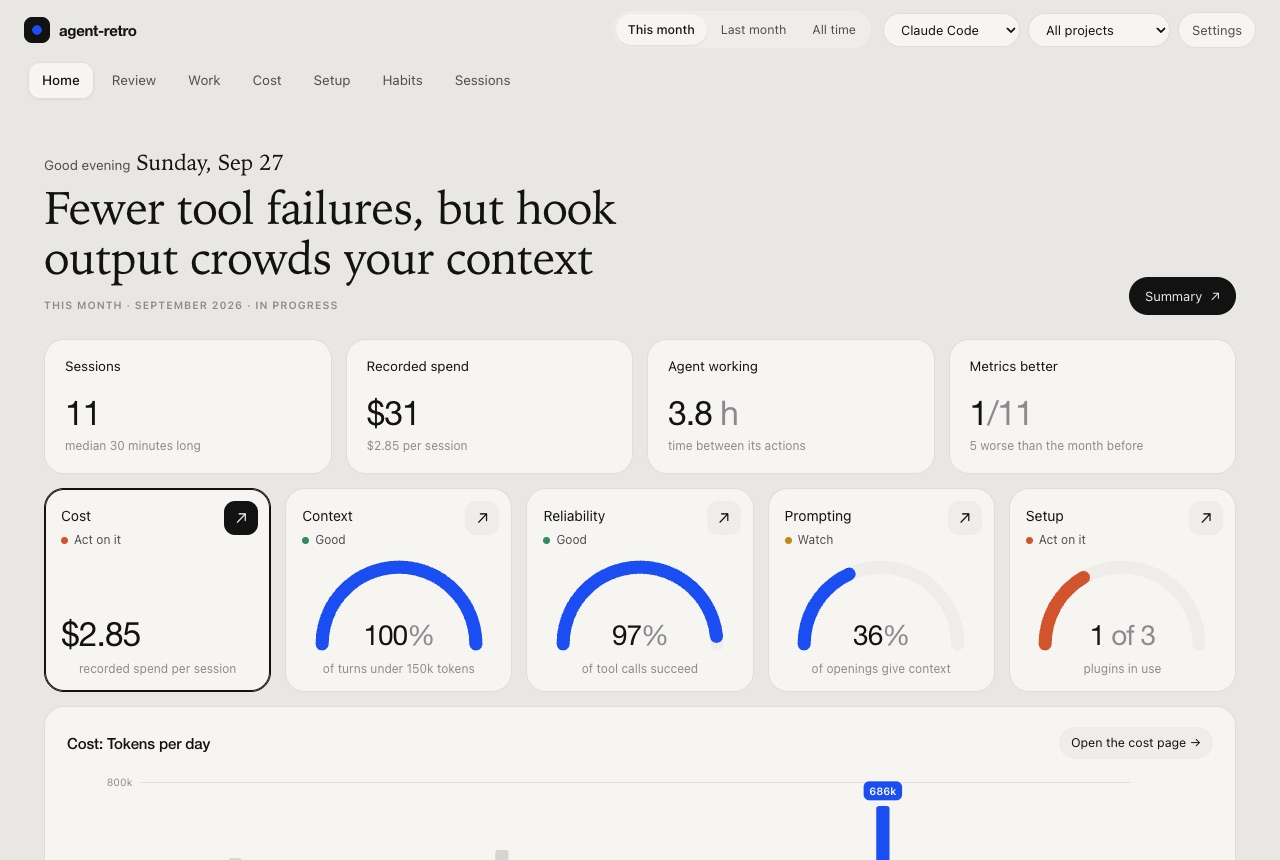
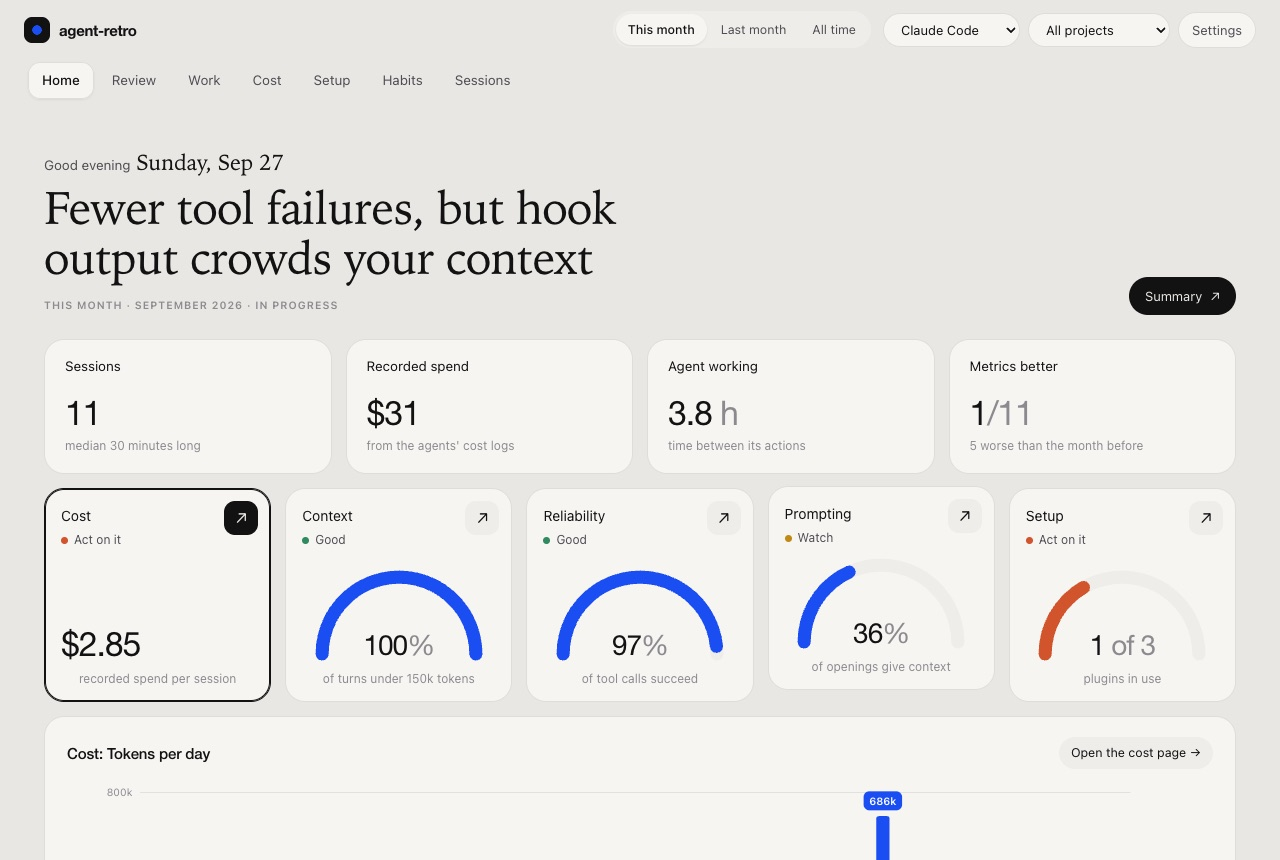
Say each change once: one Change list led by Do next
Change, Do next, the experiment and What to change were the same
recommendations four times. The review's change list now leads with the
numbered Do next items (with the metric to watch, one marked as the
experiment) and every renderer shows it once: the dashboard's What to
change, the summary, and the text and markdown reviews. Home shows only
your next step and a tally of what worked; the review card shows the
verdict instead of restating its own numbers.

diff --git a/ui/index.html b/ui/index.html
@@ -249,7 +249,25 @@
   /* Recommendations ----------------------------------------------------------- */
   .recs { list-style: none; margin: 0; padding: 0; display: grid; gap: 12px; }
   .rec { min-width: 0; background: var(--surface); border: 1px solid var(--rule); border-radius: var(--radius); padding: 20px 22px; }
-  .rec h3 { margin: 0 0 10px; font: 400 21px/1.25 var(--serif); display: flex; gap: 10px; align-items: baseline; flex-wrap: wrap; }
+  .rec h3 { margin: 0 0 10px; font: 400 21px/1.25 var(--serif); display: flex; gap: 12px; align-items: baseline; flex-wrap: wrap; }
+  .rec h3 .tags { margin-left: auto; display: inline-flex; gap: 6px; align-items: center; }
+  .rec .nx { font: 400 21px var(--serif); color: var(--ink-3); }
+  .rec.next:first-child .nx { color: var(--signal); }
+  .rec .kind { font: 600 10px var(--body); letter-spacing: .07em; text-transform: uppercase; color: var(--ink-2); background: var(--inset); border-radius: 999px; padding: 2px 8px; }
+  .rec .kind.start { color: var(--signal); background: var(--signal-soft); }
+  .watch { margin: -2px 0 12px; font-size: 13px; color: var(--ink-2); }
+  .watch b { font-weight: 600; color: var(--ink); }
+  .watch .exp { color: var(--signal); font-weight: 500; }
+  .watch code { font: 12px var(--mono); }
+  .more-recs { list-style: none; }
+  .more-recs summary { cursor: pointer; padding: 14px 4px; font: 400 20px var(--serif); }
+  .more-recs summary span { font: 400 13px var(--body); color: var(--ink-3); margin-left: 10px; }
+  .more-recs .recs { margin-top: 4px; }
+  .next-step > b { display: block; font: 400 22px/1.3 var(--serif); margin-bottom: 6px; }
+  .next-step p { margin: 0 0 10px; font-size: 13.5px; color: var(--ink-2); }
+  .next-step .row { display: flex; gap: 10px; align-items: center; flex-wrap: wrap; margin-top: 14px; }
+  .tally { display: flex; align-items: center; gap: 6px; margin: 4px 0 0; }
+  .tally span { margin-left: 10px; font: 400 34px/1 var(--display); letter-spacing: -0.035em; }
   .lvl { font: 600 10.5px var(--body); letter-spacing: .06em; text-transform: uppercase; padding: 2px 8px; border-radius: 999px; background: var(--track); color: var(--ink-2); }
   .rec.high .lvl { background: var(--alert-soft); color: var(--alert); }
   .rec dl { display: grid; grid-template-columns: 44px minmax(0, 1fr); gap: 6px 12px; margin: 0; font-size: 14px; }
@@ -358,14 +376,7 @@
   .digest-bar { max-width: 780px; margin: 0 auto 14px; display: flex; justify-content: space-between; align-items: center; gap: 12px; flex-wrap: wrap; }
   .digest { max-width: 780px; margin: 0 auto; background: var(--surface); border: 1px solid var(--rule); border-radius: 24px; padding: clamp(24px, 5vw, 52px) clamp(20px, 5vw, 60px); }
   .digest h2 { font: 400 clamp(30px, 4vw, 44px)/1.1 var(--serif); letter-spacing: -0.01em; margin: 12px 0 14px; }
-  .digest .lede { font: 400 18px/1.5 var(--serif); color: var(--ink-2); margin: 0; }
-  .digest .stats { display: grid; grid-template-columns: repeat(4, minmax(0, 1fr)); margin: 28px 0 8px; padding: 18px 0; border-block: 1px solid var(--rule); }
-  .digest .stats div { padding: 0 16px; border-left: 1px solid var(--rule); min-width: 0; }
-  .digest .stats div:first-child { padding-left: 0; border-left: 0; }
-  .digest .stats b { display: block; font: 400 30px/1.1 var(--display); letter-spacing: -0.035em; white-space: nowrap; overflow: hidden; text-overflow: ellipsis; }
-  .digest .stats div > span { font-size: 12px; color: var(--ink-3); }
-  .digest .stats b.txt { font-size: 20px; line-height: 1.5; letter-spacing: -0.01em; white-space: normal; }
-  @media (max-width: 640px) { .digest .stats { grid-template-columns: repeat(2, minmax(0, 1fr)); gap: 14px 0; } .digest .stats div:nth-child(3) { padding-left: 0; border-left: 0; } }
+  .digest .lede { font: 400 18px/1.5 var(--serif); color: var(--ink-2); margin: 0 0 8px; }
   .digest h3 { display: flex; align-items: center; gap: 8px; font: 600 10.5px var(--body); letter-spacing: .09em; text-transform: uppercase; color: var(--ink-2); margin: 34px 0 6px; }
   .digest h3::before { content: ""; width: 8px; height: 8px; border-radius: 50%; background: var(--c, var(--ink-3)); }
   .digest h3.good { --c: var(--good); } .digest h3.bad { --c: var(--alert); } .digest h3.change { --c: var(--signal); } .digest h3.next { --c: var(--ink); }
@@ -375,7 +386,8 @@
   .drow b { font-weight: 500; color: var(--ink); line-height: 1.4; }
   .drow span { color: var(--ink-3); font-size: 13px; }
   .drow .n { font: 400 19px/1.2 var(--serif); color: var(--ink-3); }
-  .drow:first-of-type .n { color: var(--signal); }
+  .drow .n { font-size: 17px; }
+  h3.change + .drow .n { color: var(--signal); }
   .drow .kind { justify-self: start; align-self: start; margin-top: 2px; }
   .drow.kinded { grid-template-columns: 54px minmax(0, 1fr); }
   .digest .tools { display: flex; gap: 12px; flex-wrap: wrap; align-items: center; margin-top: 34px; padding-top: 22px; border-top: 1px solid var(--rule); }
@@ -386,7 +398,7 @@
   .card .nums div { padding: 0 20px; border-left: 1px solid var(--rule); min-width: 0; }
   .card .nums div:first-child { padding-left: 0; border-left: 0; }
   .card .nums div b { display: block; font: 400 34px/1.1 var(--display); letter-spacing: -0.035em; overflow: hidden; text-overflow: ellipsis; white-space: nowrap; }
-  .card .nums div span { font-size: 12.5px; color: var(--ink-3); }
+  .card .nums div > span { font-size: 12.5px; color: var(--ink-3); }
   @media (max-width: 640px) { .card .nums { gap: 14px; } .card .nums div { border-left: 0; padding: 0; } }
   .card p { margin: 18px 0 0; padding-top: 16px; border-top: 1px solid var(--rule); font: 400 19px/1.45 var(--serif); color: var(--ink); max-width: 80ch; }
   .board { display: grid; grid-template-columns: repeat(3, minmax(0, 1fr)); gap: 14px; }
@@ -396,7 +408,8 @@
   .board .col h3 { margin: 0 0 12px; font: 600 10.5px var(--body); letter-spacing: .09em; text-transform: uppercase; color: var(--ink-2); display: flex; align-items: center; gap: 8px; }
   .board .col h3::before { content: ""; width: 8px; height: 8px; border-radius: 50%; background: var(--c); }
   .board .col h3 span { margin-left: auto; font: 400 22px var(--display); letter-spacing: -0.02em; color: var(--ink); }
-  .board .col.good { --c: var(--good); } .board .col.bad { --c: var(--alert); } .board .col.change { --c: var(--signal); }
+  .board .col.good { --c: var(--good); } .board .col.bad { --c: var(--alert); } .board .col.check { --c: var(--ink); }
+  .board .kz-item { display: flex; gap: 10px; }
   .note .kind, .digest .kind { display: inline-block; font: 600 10px var(--body); letter-spacing: .07em; text-transform: uppercase; color: var(--ink-2); background: var(--inset); border-radius: 999px; padding: 1px 8px; margin-right: 6px; vertical-align: 1px; }
   .note .kind.start, .digest .kind.start { color: var(--signal); background: var(--signal-soft); }
   .note { padding: 12px 0; border-top: 1px solid var(--rule); font-size: 13.5px; }
@@ -494,8 +507,8 @@
       <div class="areas" id="areas" role="list"></div>
       <div class="peek panel" id="peek" aria-live="polite"></div>
       <div class="grid g2 gap">
-        <div class="panel"><h3>Do next</h3><p class="hint">The changes with the most impact, from your own numbers. Each has a fix to paste.</p><ol class="actions" id="homeActions"></ol></div>
-        <div class="panel"><h3>Is it working?</h3><p class="hint">How the actions from your last saved review moved.</p><div id="homeFollowUp"></div></div>
+        <div class="panel"><h3>Your next step</h3><p class="hint">The change with the most impact, from your own numbers.</p><div id="homeNext"></div></div>
+        <div class="panel"><h3>Is it working?</h3><p class="hint">How the changes from your last saved review moved.</p><div id="homeFollowUp"></div></div>
       </div>
     </section>
   </div>
@@ -505,16 +518,12 @@
       <p id="scope">Reading your local agent logs…</p>
       <div class="card" id="periodCard"></div>
       <div class="board" id="board"></div>
-      <div class="grid g2 gap retro-foot">
-        <div class="panel"><h3>Do next</h3><p class="hint">The three changes with the most impact, each with a fix and the number that will show whether it worked.</p><ol class="actions" id="actions"></ol><div id="experiment"></div></div>
-        <div class="panel"><h3>Did it work?</h3><p class="hint">Save this review, and the next one shows how its actions moved: baseline → now.</p><div id="followUp"></div></div>
-      </div>
     </section>
 
     <section id="changes" class="part">
       <header>
         <h2>What to change</h2>
-        <p>Changes your own data supports, most impactful first. Each shows the evidence, what to do, and a fix you can paste. Nothing is applied for you.</p>
+        <p>Start with the numbered ones: each has a fix to paste and the number that will show next month whether it worked. The rest follow, most impactful first. Nothing is applied for you.</p>
       </header>
       <ol class="recs" id="recs"></ol>
       <div class="panel gap scroll">
@@ -931,22 +940,18 @@ function renderSummary(a, sessions) {
   if (!r) return;
   const c = r.card;
   $('periodCard').innerHTML = `<div class="nums">
-      <div><b>${fmt(c.sessions)}</b><span>sessions this ${esc(r.period.unit)}</span></div>
-      <div><b>${c.spend ? money(c.spend) : '—'}</b><span>recorded spend</span></div>
-      <div><b>${c.agentHours} h</b><span>of agent work</span></div>
+      <div><b>${numHtml(fmt(c.sessions))}</b><span>sessions this ${esc(r.period.unit)}</span></div>
+      <div><b>${numHtml(c.spend ? money(c.spend) : '—')}</b><span>recorded spend</span></div>
+      <div><b>${numHtml(c.agentHours + ' h')}</b><span>of agent work</span></div>
       <div><b>${c.topTask ? esc(c.topTask.label) : '—'}</b><span>${c.topTask ? `main task, ${rate(c.topTask.share)} of sessions` : 'main task'}</span></div>
-    </div><p>${esc(r.headline)}</p>`;
-  const COLS = [['wentWell', 'Went well', 'good'], ['didntGoWell', "Didn't go well", 'bad'], ['change', 'Change', 'change']];
-  $('board').innerHTML = COLS.map(([k, title, cls]) => `<div class="col ${cls}"><h3>${title}<span>${r[k].length}</span></h3>${r[k].length ? r[k].map((it) => `<div class="note"><b>${it.kind ? `<span class="kind ${it.kind}">${it.kind}</span>` : ''}${esc(it.text)}</b>${it.detail ? `<span>${esc(it.detail)}</span>` : ''}<a href="#${it.recId ? 'rec-' + esc(it.recId) : esc(it.section)}">Details →</a></div>`).join('') : '<p class="empty">Nothing here this time.</p>'}</div>`).join('');
-  $('actions').innerHTML = r.actions.length ? r.actions.map((x, i) => `<li><b>${esc(x.title)}</b><button type="button" data-afix="${i}">Copy fix</button><small>${x.metric ? `Watch: ${esc(x.metric.label)}, now <strong>${esc(x.metric.display)}</strong>` : `Fix: ${esc(FIX_LABEL[x.fix.kind] || 'Fix')} ${esc(x.fix.target)}`}</small></li>`).join('') : '<p class="empty">No action items: nothing crossed a threshold.</p>';
-  $('actions').querySelectorAll('[data-afix]').forEach((b) => b.addEventListener('click', async () => {
-    try { await navigator.clipboard.writeText(r.actions[Number(b.dataset.afix)].fix.content); b.textContent = 'Copied'; } catch { b.textContent = 'Copy failed'; }
-    setTimeout(() => { b.textContent = 'Copy fix'; }, 1600);
-  }));
-  const x = r.experiment, f = r.followUp;
-  $('experiment').innerHTML = x ? `<div class="kz-exp"><b>Experiment for the next ${esc(x.span)}:</b> ${esc(x.title)}.<br>Measure ${esc(x.metric.label)}, now <b>${esc(x.metric.display)}</b>. Check with <code>${esc(x.check)}</code>.</div>` : '';
-  $('followUp').innerHTML = (f ? `<div style="font-size:12.5px;color:var(--ink-3)">Since the review saved ${esc(dateStr(f.savedAt.slice(0, 10)))}</div>` + f.items.map((it) => `<div class="kz-item">${vdot(it.verdict)}<div><b>${esc(it.title)}</b>${it.metric ? `<br><span style="color:var(--ink-3);font-size:12.5px">${esc(it.metric)}: ${esc(it.baseline)} → ${esc(it.now)} (${esc(it.verdict)})${it.stillOpen ? ' · still recommended' : ''}</span>` : ''}</div></div>`).join('') : '<p class="empty">No saved review yet.</p>')
-    + `<div class="kz-save"><button type="button" id="saveRetro" class="primary">Save this review</button> <span class="status" id="saveStatus" style="text-align:left"></span></div>`;
+    </div><p>${esc(r.verdict)}.</p>`;
+  const f = r.followUp;
+  const col = (cls, title, count, body) => `<div class="col ${cls}"><h3>${title}<span>${count}</span></h3>${body}</div>`;
+  const notes = (list) => (list.length ? list.map((it) => `<div class="note"><b>${esc(it.text)}</b>${it.detail ? `<span>${esc(it.detail)}</span>` : ''}<a href="#${esc(it.section)}">Details →</a></div>`).join('') : '<p class="empty">Nothing here this time.</p>');
+  const checks = f ? `<p class="hint" style="margin:0 0 4px">Since the review saved ${esc(dateStr(f.savedAt.slice(0, 10)))}</p>` + f.items.map((it) => `<div class="note kz-item">${vdot(it.verdict)}<div><b>${esc(it.title)}</b>${it.metric ? `<span>${esc(it.metric)}: ${esc(it.baseline)} → ${esc(it.now)} (${esc(it.verdict)})${it.stillOpen ? ' · still recommended' : ''}</span>` : ''}</div></div>`).join('')
+    : '<p class="empty">No saved review yet. Save this one, and next month this column shows how its changes moved.</p>';
+  $('board').innerHTML = col('good', 'Went well', r.wentWell.length, notes(r.wentWell)) + col('bad', "Didn't go well", r.didntGoWell.length, notes(r.didntGoWell))
+    + col('check', 'Did it work?', f ? f.items.length : '', checks + `<div class="kz-save"><button type="button" id="saveRetro" class="primary">Save this review</button> <span class="status" id="saveStatus" style="text-align:left"></span></div>`);
   $('saveRetro').addEventListener('click', async () => {
     try { await postJson('/api/retro/save?' + query(), {}); $('saveStatus').textContent = 'Saved. The next review shows how these actions went.'; }
     catch (e) { $('saveStatus').textContent = 'Could not save: ' + e.message; }
@@ -966,17 +971,26 @@ function renderTrend(a) {
 
 /* ---- recommendations ---- */
 const FIX_LABEL = { settings: 'Merge into', shell: 'Run in', file: 'Create', 'claude-md': 'Add to', manual: 'In' };
-function renderRecs(a) {
-  const R = a.recommendations || [];
-  $('recs').innerHTML = R.length ? R.map((r, i) => `
-    <li class="rec ${esc(r.level)}" id="rec-${esc(r.id)}" tabindex="-1">
-      <h3><span class="lvl">${esc(r.level)}</span>${esc(r.title)}</h3>
+/** Where a recommendation sits in the review's Change list: its Do next number, kind and metric. */
+const changeOf = (a, id) => ((a.retro && a.retro.change) || []).find((it) => it.recId === id);
+function recCard(a, r) {
+  const c = changeOf(a, r.id) || {}, x = a.retro && a.retro.experiment;
+  return `<li class="rec ${esc(r.level)}${c.next ? ' next' : ''}" id="rec-${esc(r.id)}" tabindex="-1">
+      <h3>${c.next ? `<span class="nx">${String(c.next).padStart(2, '0')}</span>` : ''}${esc(r.title)}<span class="tags">${c.kind ? `<span class="kind ${esc(c.kind)}">${esc(c.kind)}</span>` : ''}<span class="lvl">${esc(r.level)}</span></span></h3>
+      ${c.metric ? `<p class="watch">Watch <b>${esc(c.metric.label)}</b>, now <b>${esc(c.metric.display)}</b>${c.experiment && x ? ` · <span class="exp">Experiment for the next ${esc(x.span)}</span>: check with <code>${esc(x.check)}</code>` : ''}</p>` : ''}
       <dl>${r.evidence ? `<dt>Why</dt><dd>${esc(r.evidence)}</dd>` : ''}<dt>Do</dt><dd>${esc(r.action)}</dd></dl>
       ${r.trend ? `<div class="trend">${esc(r.trend.label)}: <b>${fmtM(r.trend, r.trend.before)}</b> → <b>${fmtM(r.trend, r.trend.after)}</b> <span class="v-${r.trend.verdict}">${VERDICT[r.trend.verdict]}</span> <span style="color:var(--ink-3)">(${esc(trendWindow(a.trend))})</span></div>` : ''}
-      ${r.fix ? `<div class="fix"><div class="fix-bar">${esc(FIX_LABEL[r.fix.kind] || 'Fix')} <b>${esc(r.fix.target)}</b><button type="button" data-copy="${i}">Copy</button></div><pre>${esc(r.fix.content)}</pre></div>` : ''}
-    </li>`).join('') : '<li class="rec"><h3>Nothing to change for this selection.</h3><p class="empty">Recommendations need a few sessions of evidence. Widen the period.</p></li>';
+      ${r.fix ? `<div class="fix"><div class="fix-bar">${esc(FIX_LABEL[r.fix.kind] || 'Fix')} <b>${esc(r.fix.target)}</b><button type="button" data-copy="${esc(r.id)}">Copy</button></div><pre>${esc(r.fix.content)}</pre></div>` : ''}
+    </li>`;
+}
+function renderRecs(a) {
+  const R = a.recommendations || [];
+  const nx = (r) => (changeOf(a, r.id) || {}).next || 0;
+  const next = R.filter(nx).sort((p, q) => nx(p) - nx(q)), rest = R.filter((r) => !nx(r));
+  $('recs').innerHTML = !R.length ? '<li class="rec"><h3>Nothing to change for this selection.</h3><p class="empty">Recommendations need a few sessions of evidence. Widen the period.</p></li>'
+    : next.map((r) => recCard(a, r)).join('') + (rest.length ? `<li class="more-recs"><details${next.length ? '' : ' open'}><summary>${next.length ? `${rest.length} more change${rest.length === 1 ? '' : 's'}` : 'Changes'}<span>most impactful first</span></summary><ol class="recs">${rest.map((r) => recCard(a, r)).join('')}</ol></details></li>` : '');
   $('recs').querySelectorAll('[data-copy]').forEach((b) => b.addEventListener('click', async () => {
-    try { await navigator.clipboard.writeText(R[Number(b.dataset.copy)].fix.content); b.textContent = 'Copied'; }
+    try { await navigator.clipboard.writeText(R.find((r) => r.id === b.dataset.copy).fix.content); b.textContent = 'Copied'; }
     catch { b.textContent = 'Select and copy manually'; }
     setTimeout(() => { b.textContent = 'Copy'; }, 1600);
   }));
@@ -1513,7 +1527,7 @@ function renderHome(a) {
   const tracked = Object.keys(t).length;
   kpis('homeKpis', [
     ['sessions', fmt(a.sessions.count), `median ${a.sessions.medianMinutes || 0} minutes long`],
-    ['recorded spend', a.cost.usd ? '$' + Math.round(a.cost.usd).toLocaleString() : '—', a.cost.usd && a.sessions.count ? `${money(a.cost.usd / a.sessions.count)} per session` : 'no cost in the logs'],
+    ['recorded spend', a.cost.usd ? '$' + Math.round(a.cost.usd).toLocaleString() : '—', a.cost.usd ? 'from the agents\' cost logs' : 'no cost in the logs'],
     ['agent working', `${hours.toFixed(1)} h`, 'time between its actions'],
     all || !a.trend ? ['tool calls', fmtN(a.volume.toolCalls || 0), `${fmt(a.volume.toolCalls ? Math.round(a.volume.toolCalls / Math.max(1, a.sessions.count)) : 0)} per session`]
       : ['metrics better', `${better}/${tracked}`, `${worse} worse than the ${UNIT} before`],
@@ -1529,15 +1543,22 @@ function renderHome(a) {
       <span class="body">${ar.frac != null ? `${gaugeSvg(ar.frac)}<span class="v">${numHtml(ar.v)}</span>` : `<span class="v flat">${numHtml(ar.v)}</span>`}</span><span class="s">${esc(ar.s)}</span></button>`).join('');
   $('areas').querySelectorAll('.area').forEach((b) => b.addEventListener('click', () => { PEEK = b.dataset.area; renderPeek(a); }));
   renderPeek(a);
-  const recs = (a.recommendations || []).slice(0, 3);
-  $('homeActions').innerHTML = recs.length ? recs.map((x, i) => `<li><b>${esc(x.title)}</b>${x.fix ? `<button type="button" data-hfix="${i}">Copy fix</button>` : `<a href="#rec-${esc(x.id)}" style="font-size:12.5px">How</a>`}<small>${esc(firstSentence(x.evidence || x.action))}</small></li>`).join('') : '<p class="empty">Nothing crossed a threshold. Keep going.</p>';
-  $('homeActions').querySelectorAll('[data-hfix]').forEach((b) => b.addEventListener('click', async () => {
-    try { await navigator.clipboard.writeText(recs[Number(b.dataset.hfix)].fix.content); b.textContent = 'Copied'; } catch { b.textContent = 'Copy failed'; }
-    setTimeout(() => { b.textContent = 'Copy fix'; }, 1600);
-  }));
-  const f = r ? r.followUp : null, x = r ? r.experiment : null;
-  $('homeFollowUp').innerHTML = f ? f.items.map((it) => `<div class="kz-line">${vdot(it.verdict)}<div><b>${esc(it.title)}</b><br><span style="color:var(--ink-3);font-size:12.5px">${it.metric ? `${esc(it.metric)}: ${esc(it.baseline)} → ${esc(it.now)}` : 'not measured'}</span></div></div>`).join('') + '<p style="margin:14px 0 0"><a class="panel-link" href="#review-board">Full review ↗</a></p>'
-    : `<p class="empty">No saved review yet. Open the <a href="#review-board">review</a> and choose “Save this review”; next ${UNIT} this box shows what changed.</p>${x ? `<p style="font-size:13.5px;margin:10px 0 0">Experiment to try: <b>${esc(x.title)}</b> (${esc(x.metric.label)}, now ${esc(x.metric.display)}).</p>` : ''}`;
+  const R = a.recommendations || [];
+  const first = R.find((x) => (changeOf(a, x.id) || {}).next === 1) || R[0];
+  const c1 = first ? changeOf(a, first.id) || {} : {};
+  $('homeNext').innerHTML = first ? `<div class="next-step"><b>${esc(first.title)}</b><p>${esc(firstSentence(first.evidence || first.action))}</p>
+      ${c1.metric ? `<p class="watch">Watch <b>${esc(c1.metric.label)}</b>, now <b>${esc(c1.metric.display)}</b></p>` : ''}
+      <div class="row">${first.fix ? '<button type="button" class="primary" id="homeFix">Copy fix</button>' : ''}<a class="panel-link" href="#rec-${esc(first.id)}">${R.length > 1 ? `All ${R.length} changes` : 'Details'} ↗</a></div></div>`
+    : '<p class="empty">Nothing crossed a threshold. Keep going.</p>';
+  if ($('homeFix')) $('homeFix').addEventListener('click', async (e) => {
+    try { await navigator.clipboard.writeText(first.fix.content); e.target.textContent = 'Copied'; } catch { e.target.textContent = 'Copy failed'; }
+    setTimeout(() => { e.target.textContent = 'Copy fix'; }, 1600);
+  });
+  const f = r ? r.followUp : null;
+  const n = (v) => (f ? f.items.filter((it) => it.verdict === v).length : 0);
+  $('homeFollowUp').innerHTML = f
+    ? `<p class="tally">${f.items.map((it) => vdot(it.verdict)).join('')}<span>${numHtml(`${n('better')} of ${f.items.length}`)}</span></p><p class="hint" style="margin:6px 0 14px">changes from the review saved ${esc(dateStr(f.savedAt.slice(0, 10)))} moved the right way${n('worse') ? `; ${n('worse')} moved the wrong way` : ''}.</p><a class="panel-link" href="#review-board">See which ↗</a>`
+    : `<p class="empty">No saved review yet. Open the <a href="#review-board">review</a> and choose “Save this review”; next ${UNIT} this box shows whether its changes worked.</p>`;
 }
 const firstSentence = (t) => { const m = /^[\s\S]*?[.!?](\s|$)/.exec(t || ''); return (m ? m[0] : t || '').trim(); };
 
@@ -1547,19 +1568,12 @@ function renderDigest(a) {
   if (!r) { $('digest').innerHTML = '<p class="empty">Nothing to summarise yet.</p>'; return; }
   const none = (what) => `<p class="empty">${what}</p>`;
   const rows = (list, dot) => (list.length ? list.map((it) => `<div class="drow">${vdot(dot)}<b>${esc(it.text)}</b>${it.detail ? `<span>${esc(it.detail)}</span>` : ''}</div>`).join('') : none(`Nothing this ${esc(r.period.unit)}.`));
-  const f = r.followUp, c = r.card;
+  const f = r.followUp;
   $('digest').innerHTML = `<p class="eyebrow">${esc(r.period.unit === 'month' ? r.period.name : `${dateStr(r.period.from)} – ${dateStr(r.period.to)}`)}${r.period.current ? ' · in progress' : ''}</p>
     <h2>${esc(r.verdict)}</h2><p class="lede">${esc(r.headline)}</p>
-    <div class="stats">
-      <div><b>${numHtml(fmt(c.sessions))}</b><span>sessions</span></div>
-      <div><b>${numHtml(c.spend ? '$' + Math.round(c.spend) : '—')}</b><span>recorded spend</span></div>
-      <div><b>${numHtml(c.agentHours + ' h')}</b><span>of agent work</span></div>
-      <div><b class="txt">${c.topTask ? esc(c.topTask.label) : '—'}</b><span>${c.topTask ? `main task, ${rate(c.topTask.share)}` : 'main task'}</span></div>
-    </div>
     <h3 class="good">What went well</h3>${rows(r.wentWell, 'better')}
     <h3 class="bad">What didn't</h3>${rows(r.didntGoWell, 'worse')}
-    <h3 class="change">What to change</h3>${r.change.length ? r.change.map((it) => `<div class="drow kinded"><span class="kind ${esc(it.kind)}">${esc(it.kind)}</span><b>${esc(it.text)}</b>${it.detail ? `<span>${esc(it.detail)}</span>` : ''}</div>`).join('') : none('Nothing to change.')}
-    <h3 class="next">Try next ${esc(r.period.unit)}</h3>${r.actions.length ? r.actions.map((x, i) => `<div class="drow"><span class="n">${String(i + 1).padStart(2, '0')}</span><b>${esc(x.title)}</b>${x.metric ? `<span>Watch ${esc(x.metric.label)}, now ${esc(x.metric.display)}</span>` : ''}</div>`).join('') : none('Nothing to do next.')}
+    <h3 class="change">What to change</h3>${r.change.length ? r.change.map((it) => `<div class="drow kinded">${it.next ? `<span class="n">${String(it.next).padStart(2, '0')}</span>` : `<span class="kind ${esc(it.kind)}">${esc(it.kind)}</span>`}<b>${esc(it.text)}</b><span>${it.metric ? `Watch ${esc(it.metric.label)}, now ${esc(it.metric.display)}.` : esc(it.detail || '')}</span></div>`).join('') : none('Nothing to change.')}
     ${f ? `<h3>Did it work?</h3>${f.items.map((it) => `<div class="drow">${vdot(it.verdict)}<b>${esc(it.title)}</b>${it.metric ? `<span>${esc(it.metric)}: ${esc(it.baseline)} → ${esc(it.now)} (${esc(it.verdict)})</span>` : ''}</div>`).join('')}` : ''}
     <div class="tools"><button type="button" class="primary" id="copyMd">Copy as markdown</button><span class="status" id="copyStatus" style="text-align:left">Keep it in your notes, or next to the code.</span></div>`;
   $('copyMd').addEventListener('click', async () => {

diff --git a/README.md b/README.md
@@ -32,7 +32,7 @@ also where the screenshots below come from.
 
 ![Home: a one-line verdict, five areas with a status, a peek at the one you pick, what to do next and whether last month's changes worked](docs/images/home.jpg)
 ![Your monthly review: period card and Went well / Didn't go well / Change](docs/images/review.jpg)
-![Do next with fixes and an experiment, and Did it work? for the last saved review](docs/images/review-actions.jpg)
+![What to change: the numbered Do next items with the metric to watch, a fix to paste, and the experiment](docs/images/review-actions.jpg)
 ![What to change: recommendations with evidence and a fix to paste](docs/images/what-to-change.jpg)
 ![Extensions: plugins, skills, MCP servers and hooks, loaded versus used](docs/images/extensions.jpg)
 
@@ -93,10 +93,9 @@ with the month before:
 - **Went well:** metrics that improved on the month before, prompt practices that work for you,
   clean risk signals.
 - **Didn't go well:** the patterns worth acting on, and metrics that got worse.
-- **Change:** the recommendations, each tagged *start* (a habit to add) or *stop* (something to
-  remove).
-- **Do next:** the top three changes, each with a fix to paste and the metric to watch, plus one
-  experiment to measure over the next month.
+- **Change:** one list of what to do, each tagged *start* (a habit to add) or *stop* (something to
+  remove). The top three lead, numbered: each has a fix to paste and the metric to watch, and one
+  of them is the experiment to measure over the next month.
 - **Did it work?** **Save this review** (or `--save-retro`), and the next review shows each saved
   action: baseline → now, better or worse.
 
@@ -257,7 +256,7 @@ claude mcp add agent-retro -- node /path/to/agent-retro.mjs --mcp --all-agents
 | `get_session` | One record by id |
 | `get_task_profile` | One task's stats plus the ids of its costliest and longest sessions |
 | `get_recommendations` | The recommendations above, with evidence and fixes, for the agent to present to you |
-| `get_retro` | The review of one period: card, Went well / Didn't go well / Change, Do next, the experiment and Did it work? |
+| `get_retro` | The review of one period: card, Went well / Didn't go well, Change (Do next items first, one marked as the experiment) and Did it work? |
 | `get_extensions` | Plugins, skills, MCP servers, hooks and slash commands, optionally filtered by kind or verdict |
 
 It speaks JSON-RPC 2.0 over stdio with no SDK dependency. It serves exactly the same views as the
@@ -296,10 +295,11 @@ period.
 
 - **Home** answers three questions on one screen. *How am I doing?* A one-line verdict, then five
   areas (cost, context, reliability, prompting, setup), each marked good, watch or act. Pick an area
-  to peek at its chart without leaving Home. *What should I change?* The top three changes, each
-  with a fix to copy. *Is it working?* How the actions from your last saved review moved.
-- **Review.** The period card, Went well / Didn't go well / Change, Do next and Did it work?,
-  then every recommendation with its fix and the metrics compared with the month before.
+  to peek at its chart without leaving Home. *Your next step:* the change with the most impact, with
+  a fix to copy. *Is it working?* How many changes from your last saved review moved the right way.
+- **Review.** The period card; Went well / Didn't go well / Did it work?; then What to change,
+  one list with the top three numbered first, each with its evidence, fix and metric to watch; then
+  the metrics compared with the month before.
 - **Work.** Tasks with per-session medians (select one to list its sessions, or open its
   playbook), how sessions go, and what the agent does: tools, why they fail, how it edits, when
   you stop it, shell commands and repeated sequences.

diff --git a/CHANGELOG.md b/CHANGELOG.md
@@ -16,8 +16,9 @@
 - **Review periods:** calendar months by default, or fixed cycles (a start day plus a length).
   The review covers the last completed period against the one before; fewer than 5 sessions is
   reported as too few to judge.
-- **Monthly review:** a period card; Went well / Didn't go well / Change (start or stop); Do next,
-  with fixes, the metric to watch and one experiment; and Did it work?, for the last saved review.
+- **Monthly review:** a period card; Went well / Didn't go well; Change, one list of things to
+  start or stop, led by the top three with fixes, the metric to watch and one experiment; and Did
+  it work?, for the last saved review. Each fact appears in one place.
   Available in the dashboard, as `--retro [--md]`, as `--save-retro`, and through the MCP tool
   `get_retro`.
 - **Recommendations:** evidence-backed rules, each with a fix you can paste:
